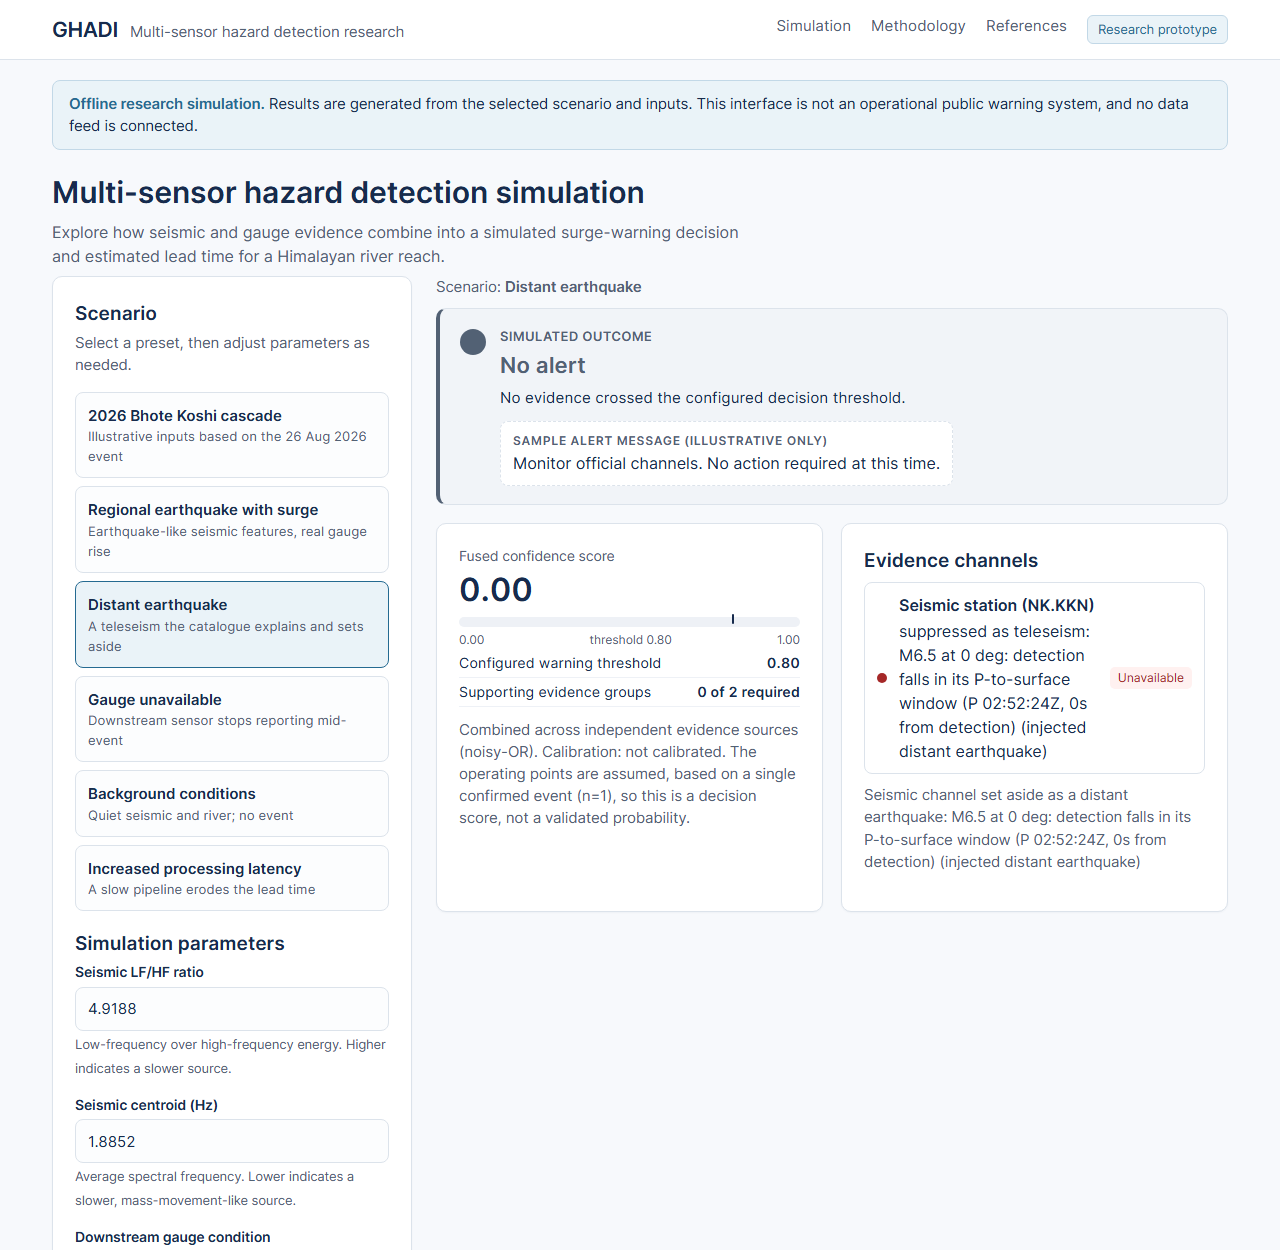
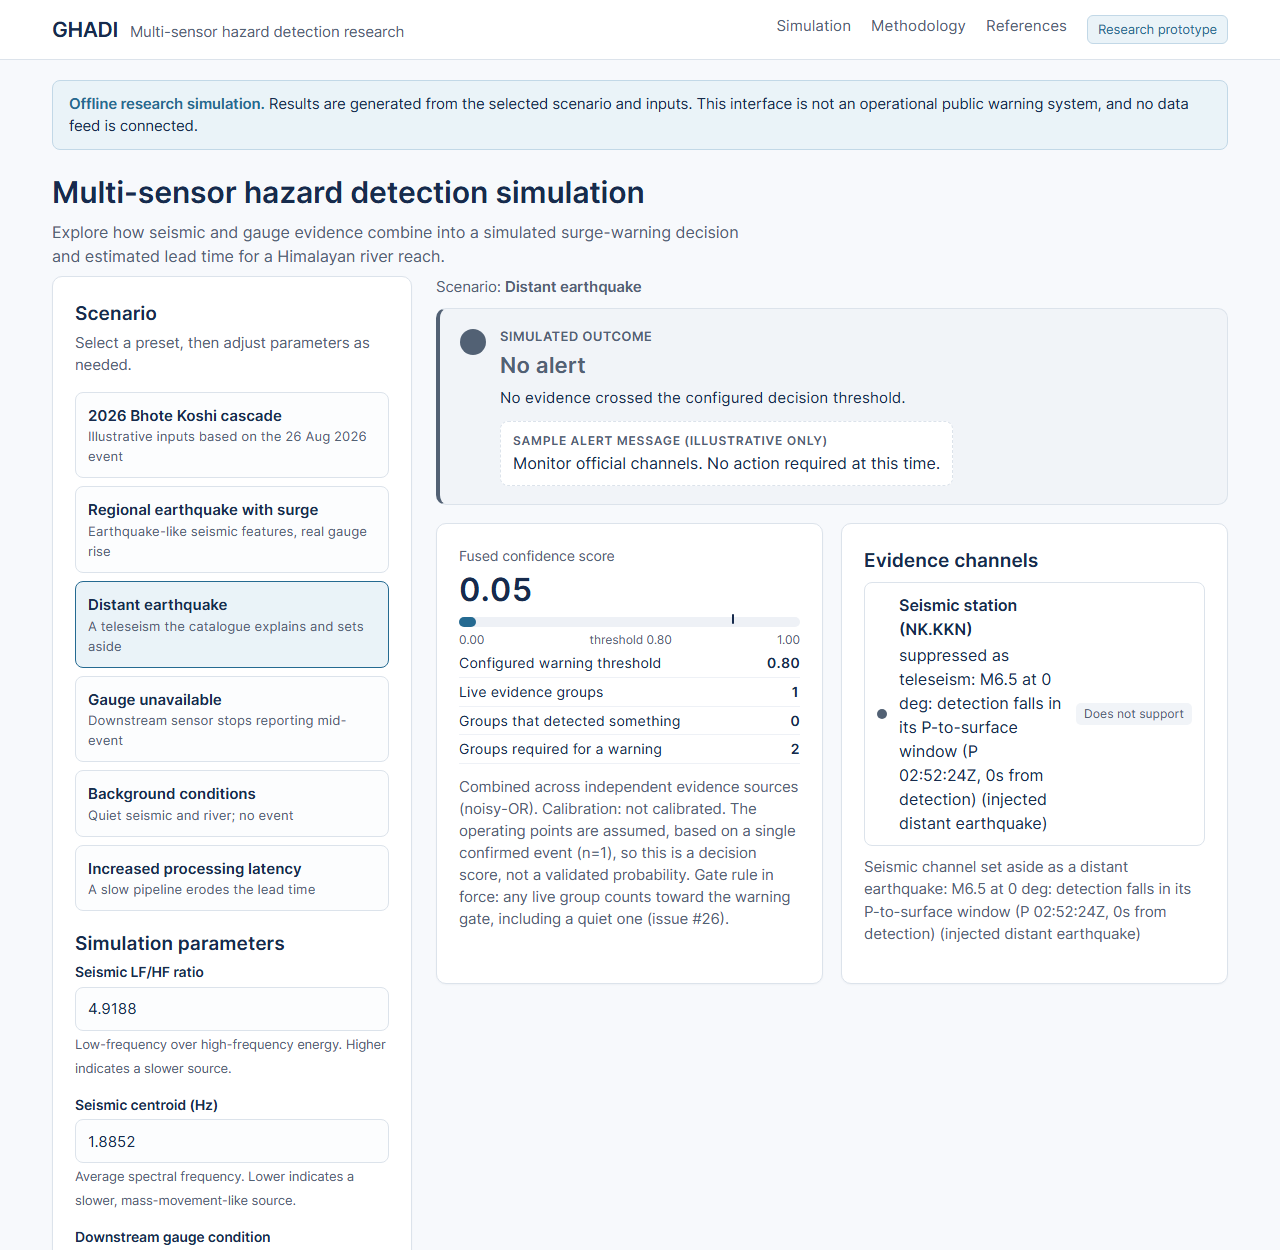
Regenerate README screenshots from the corrected presets
The distant earthquake and gauge unavailable pictures were taken while those
presets ran with the seismic station switched off.

Changed region(s): [[0.3438, 0.5304, 0.625, 0.7488], [0.6562, 0.468, 0.9375, 0.7488]]

diff --git a/README.md b/README.md
@@ -30,13 +30,13 @@ The picture above shows the main case. The inputs from the 2026 event produce a 
 
 ### A distant earthquake is set aside
 
-A far away earthquake can look like a slow local source, because the signal loses its high notes over a long distance. GHADI checks a global earthquake list and sets those cases aside. Here the seismic channel is marked unavailable and there is no alert.
+A far away earthquake can look like a slow local source, because the signal loses its high notes over a long distance. GHADI checks a global earthquake list and sets those cases aside. Here the seismic station is online, but its signal is set aside as a distant earthquake. It gives no support, and there is no alert.
 
 ![No alert from a distant earthquake](docs/images/result_no_alert.png)
 
 ### A gauge that stops reporting
 
-In 2026 four of five gauges were destroyed by the water. A dead gauge is not treated as a calm river. If a gauge stops before it reports a rise, its channel is marked unavailable, not safe.
+In 2026 four of five gauges were destroyed by the water. A dead gauge is not treated as a calm river. If a gauge stops before it reports a rise, its channel is marked unavailable, not safe. In this picture the seismic station is online and quiet, the gauge is marked unavailable, and there is no alert.
 
 ![The gauge stops reporting](docs/images/result_gauge_unavailable.png)
 

diff --git a/experiments/exp017_fusion_warning_gate/FINDINGS.md b/experiments/exp017_fusion_warning_gate/FINDINGS.md
@@ -78,7 +78,7 @@ checkbox as unchecked, so those scenarios silently ran with the seismic station
 switched off. "Distant earthquake" therefore showed the station as unavailable because
 it was off, not because the teleseism was set aside, and "Gauge unavailable" had no live
 sensor at all. The presets are fixed, the scenario table above is from the corrected
-run, and the README screenshots taken from the old presets are regenerated.
+run, and the README screenshots taken from the old presets were regenerated on 2026-09-17.
 
 ## What this does not change
 
